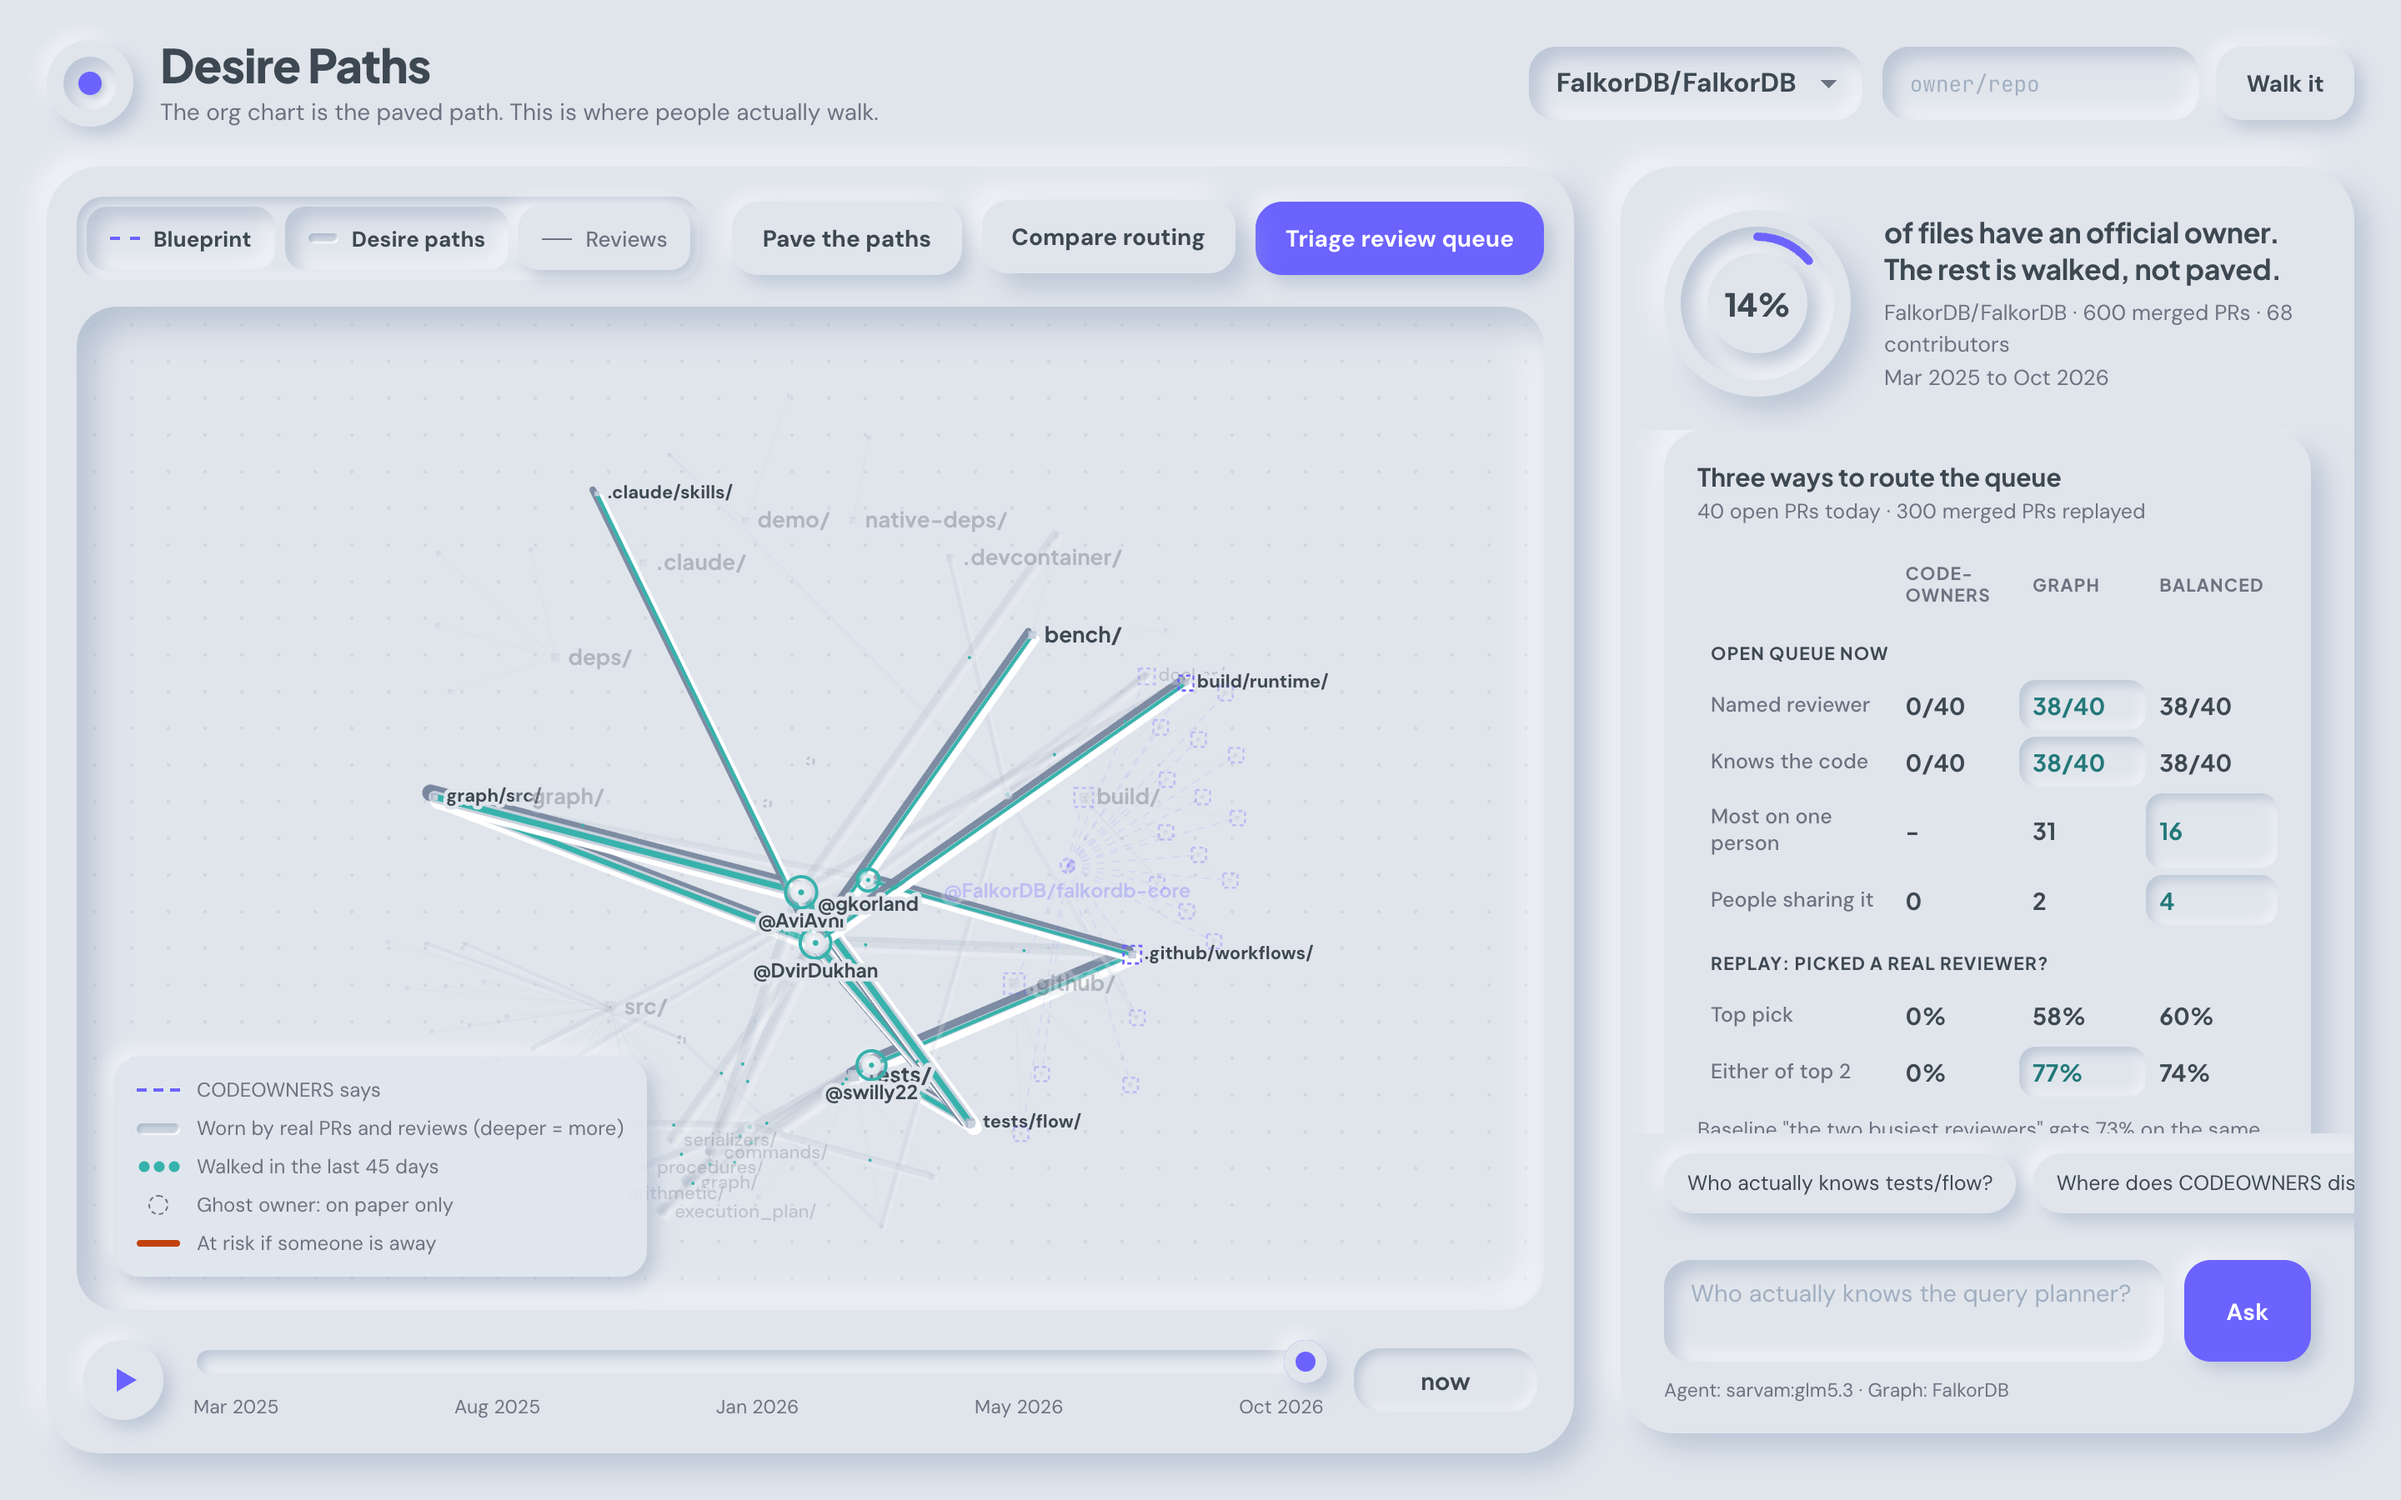
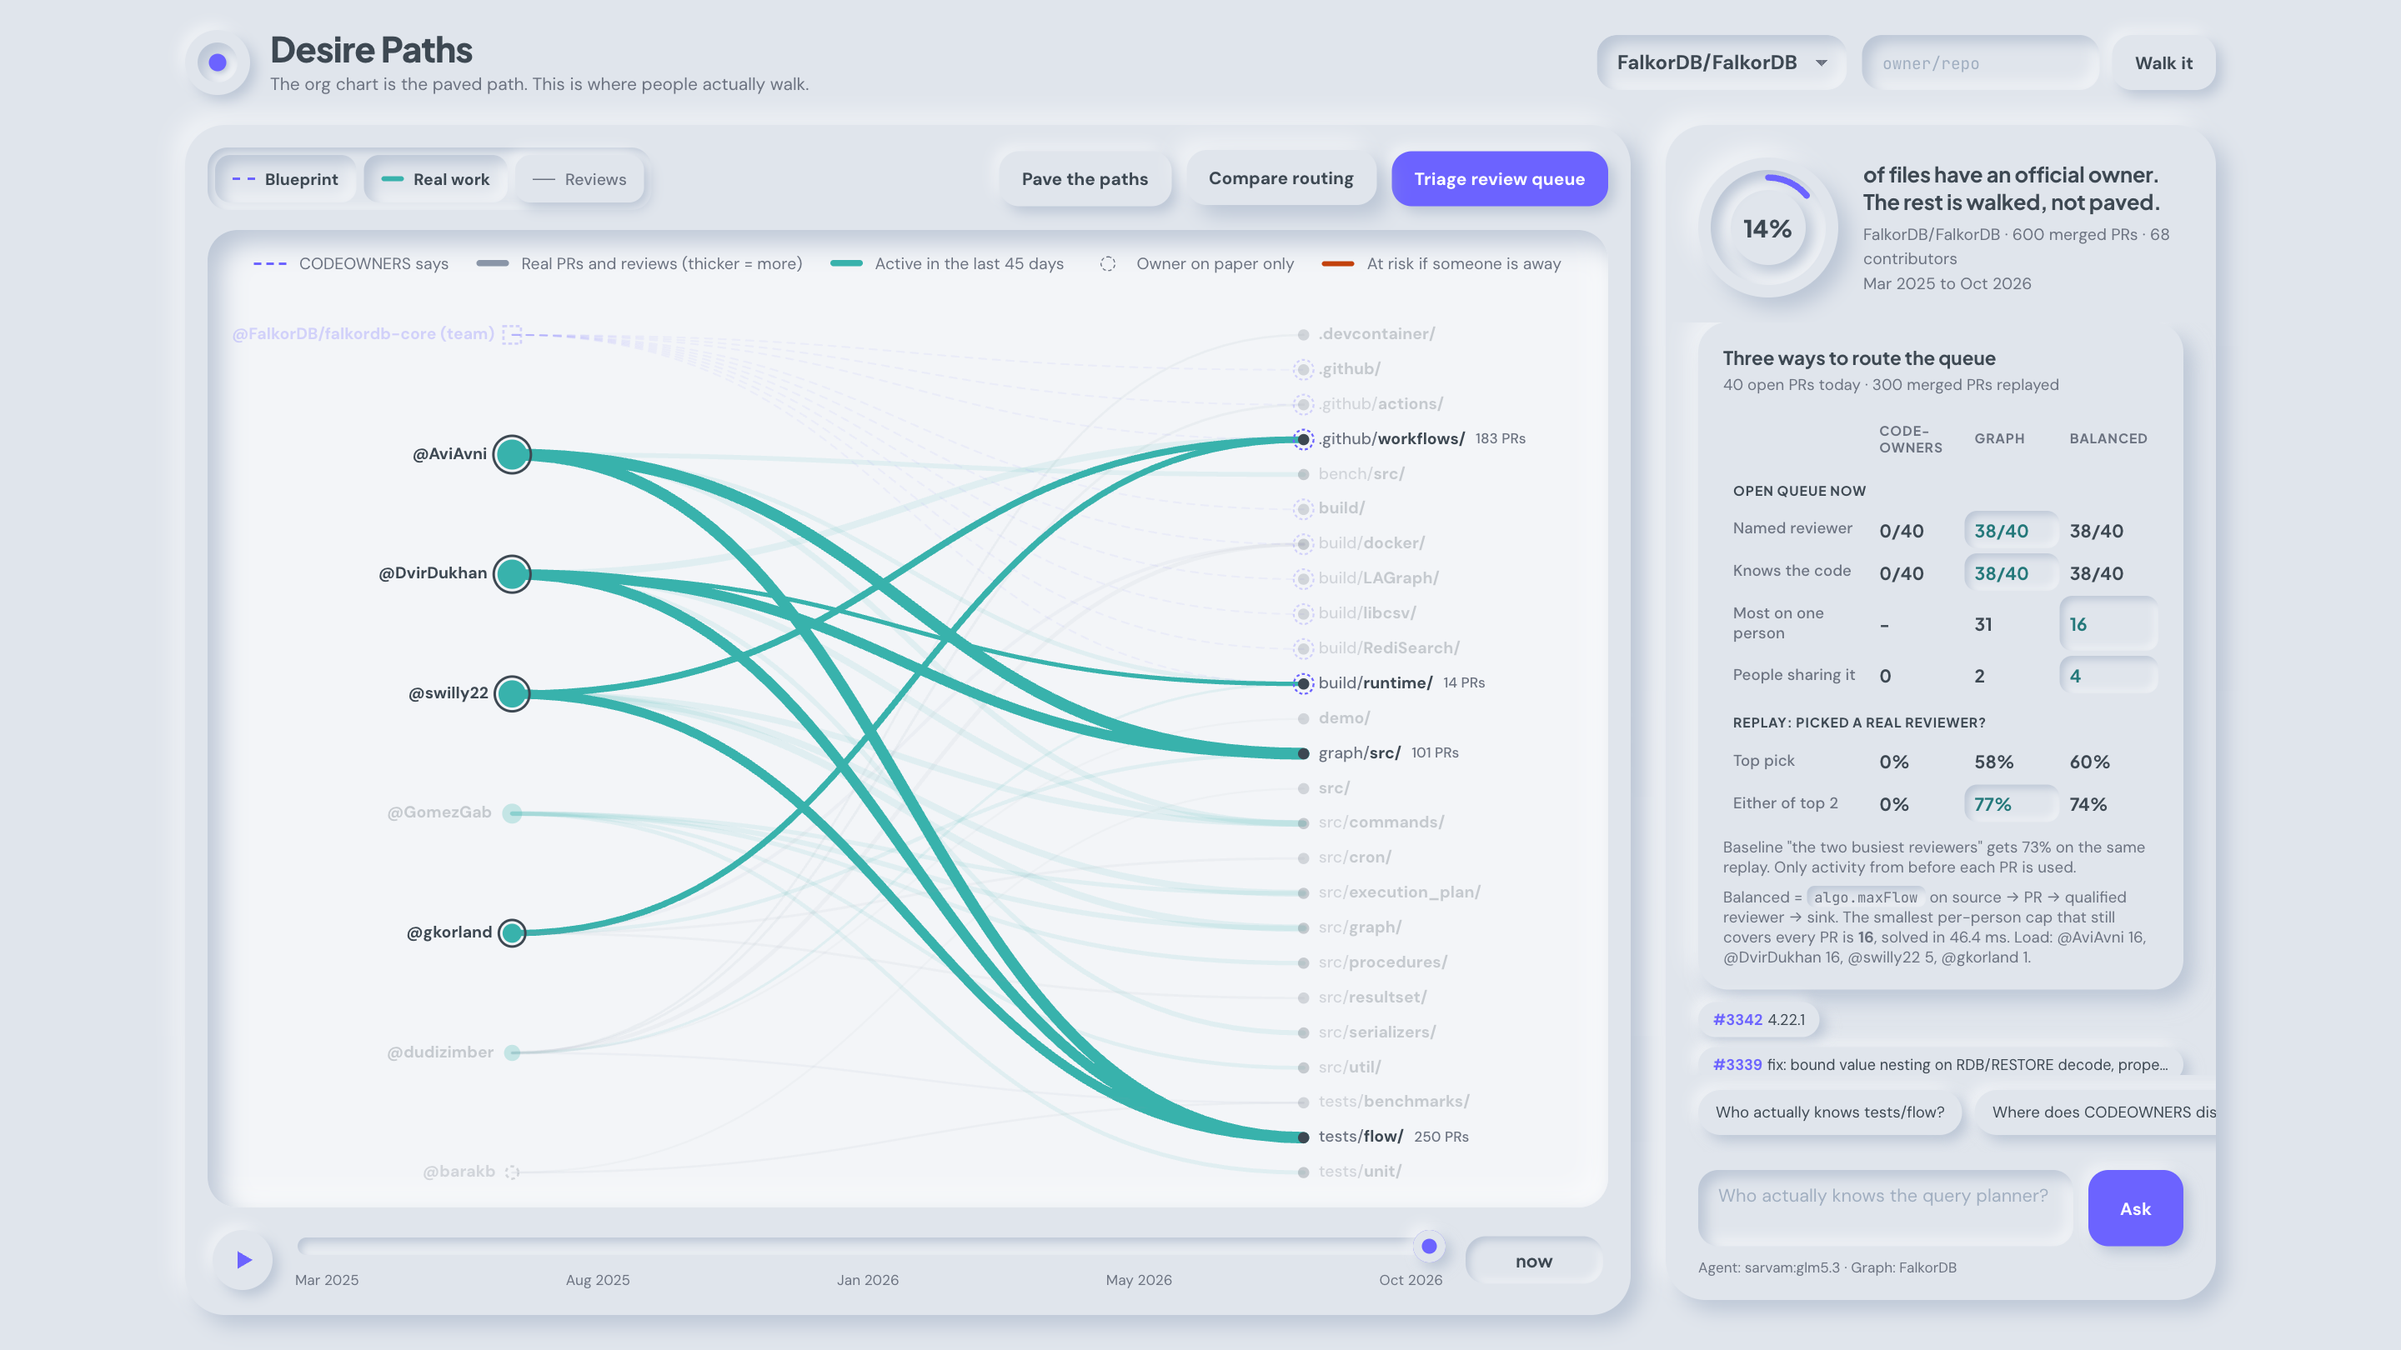
README: describe the new map, refresh screenshots, disclose AI tool use

diff --git a/README.md b/README.md
@@ -29,7 +29,7 @@ Desire Paths loads both into one FalkorDB graph, shows where they disagree, and 
 
 Built for **Graph Hacks: Context for AI Agents** (WeMakeDevs x FalkorDB), entered in Track 01: *Agents That Act on Connected Data*.
 
-![Apache Airflow: dashed violet is CODEOWNERS, the grooves are where people actually walk](docs/airflow-map.png)
+![Apache Airflow: people on the left, folders on the right; dashed violet is CODEOWNERS, solid lines are real work](docs/airflow-map.png)
 
 ## What it found on real repos
 
@@ -101,8 +101,8 @@ The flow network is projected into a scratch graph and dropped after the solve (
 **Plan for absence.**
 `if_gone` removes a person from the graph and walks it again.
 It returns the open PRs that get stuck and whether each one has a good backup, the areas that are orphaned or thin, who covers each area next, and whose code loses its main reviewer.
-On the map, their pebble becomes an empty socket and their grooves turn red.
-![If @DvirDukhan is away: their grooves turn red, and the stuck PRs show who would review next](docs/if-gone.png)
+On the map, they are marked "away" and their lines turn red.
+![If @DvirDukhan is away: their lines turn red, and the stuck PRs show who would review next](docs/if-gone.png)
 
 `fading_paths` finds the same risk in slow motion: areas whose main expert has stopped walking them, and whether anyone has picked the work up.
 
@@ -130,13 +130,15 @@ The agent picks tools, walks the graph, cites PRs, and the map lights up the exa
 Every answer and card has a *Graph proof* drawer with the exact Cypher queries the tools ran on FalkorDB, their parameters, row counts and timings.
 Nothing the agent says is a black box: you can paste any of them into FalkorDB Browser and get the same rows.
 
-## The signature detail: paths worn into clay
+## Reading the map
 
-- **Dashed violet** lines are the blueprint: what `CODEOWNERS` says.
-- **Grooves** are worn into the surface by real pull requests and reviews. Wider and deeper means more work; old paths grow shallow. Teal particles walk along paths used in the last 45 days.
-- **Ghost owners** (dashed circles) own code on paper and are absent in practice.
-- Press **play** to watch 18 months of the repo wear in: paths form, thicken, and fade as people move on. The decay is computed in the browser from the same per-PR events the backend uses.
-- **Pave the paths** fills the grooves with violet and drafts the `CODEOWNERS` that would make the blueprint match reality.
+- **People are on the left, the folders they work in on the right.**
+- **Solid lines** are real pull requests and reviews. Thicker means more work; teal means active in the last 45 days, grey means older.
+- **Dashed violet** lines are what `CODEOWNERS` says.
+- **Dashed circles** are owners on paper only: named in `CODEOWNERS`, with no recent work.
+- Press **play** to watch 18 months of the repo: lines form, thicken, and fade as people move on. The decay is computed in the browser from the same per-PR events the backend uses.
+- **Pave the paths** colours the lines violet and drafts the `CODEOWNERS` that would make the file match reality.
+- To stay readable, the map shows the 22 busiest folders and 16 busiest people; work in smaller folders is folded into their parent folder.
 
 ## Why a graph
 
@@ -248,3 +250,10 @@ src/desire_paths/
 web/             the worn-grass map (force-graph on canvas) and the agent panel
 data/            cached GitHub snapshots so the demo runs offline
 ```
+
+## Use of AI tools
+
+In line with the hackathon rules, we disclose that this project was built with help from an AI coding assistant (Claude Code).
+It was used for writing and refactoring code, the UI, the README, and producing the demo video (the narration is local Kokoro text-to-speech, the video is composed with HyperFrames).
+The idea, the graph model, the product decisions, and the checks of every number in this README were ours; all results come from running the code against FalkorDB on public GitHub data.
+At runtime, the in-app agent uses GLM 5.3 through Sarvam to choose which graph tools to call and to word its answers; every fact it states comes from the Cypher queries shown in its *Graph proof* drawer.
